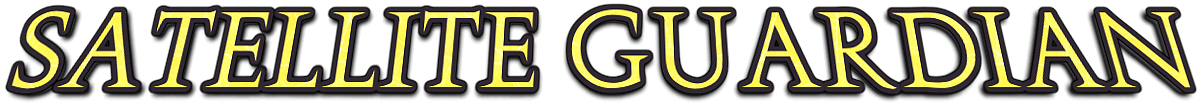
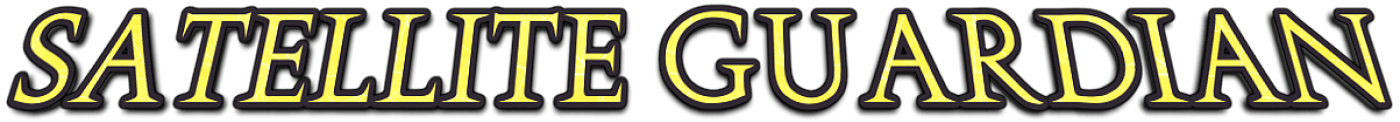
タイトル画面のテキストを調整

diff --git a/Back.h b/Back.h
@@ -25,6 +25,9 @@ private:
 	{
 		int backGraph;
 		int backX, backY;
+		int textGraph;
+		int textX, textY;
+		int textW, textH;
 		int star1Graph;
 		int star11X;
 		int star12X;
@@ -38,6 +41,8 @@ private:
 		int pressEnterX, pressEnterY;
 		int scrollSpeed1;
 		int scrollSpeed2;
+		int alphaCount1;
+		int alphaCount2;
 	};
 	Title title;
 };
